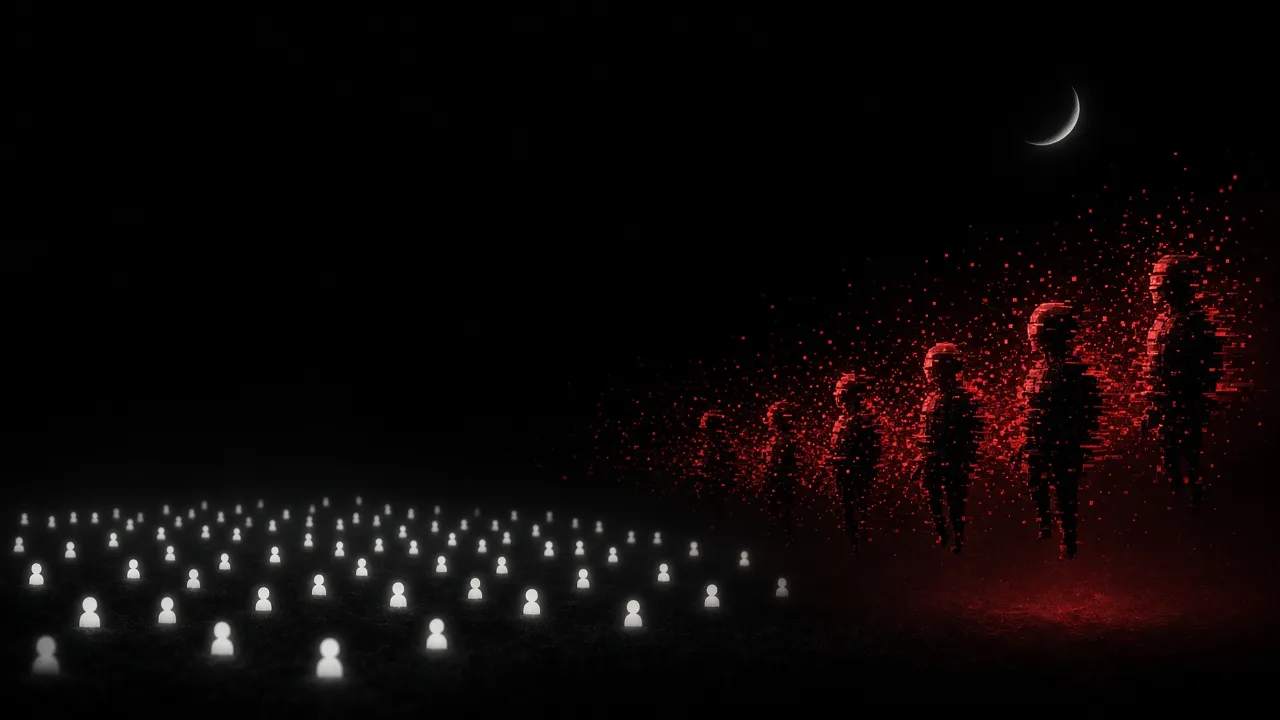
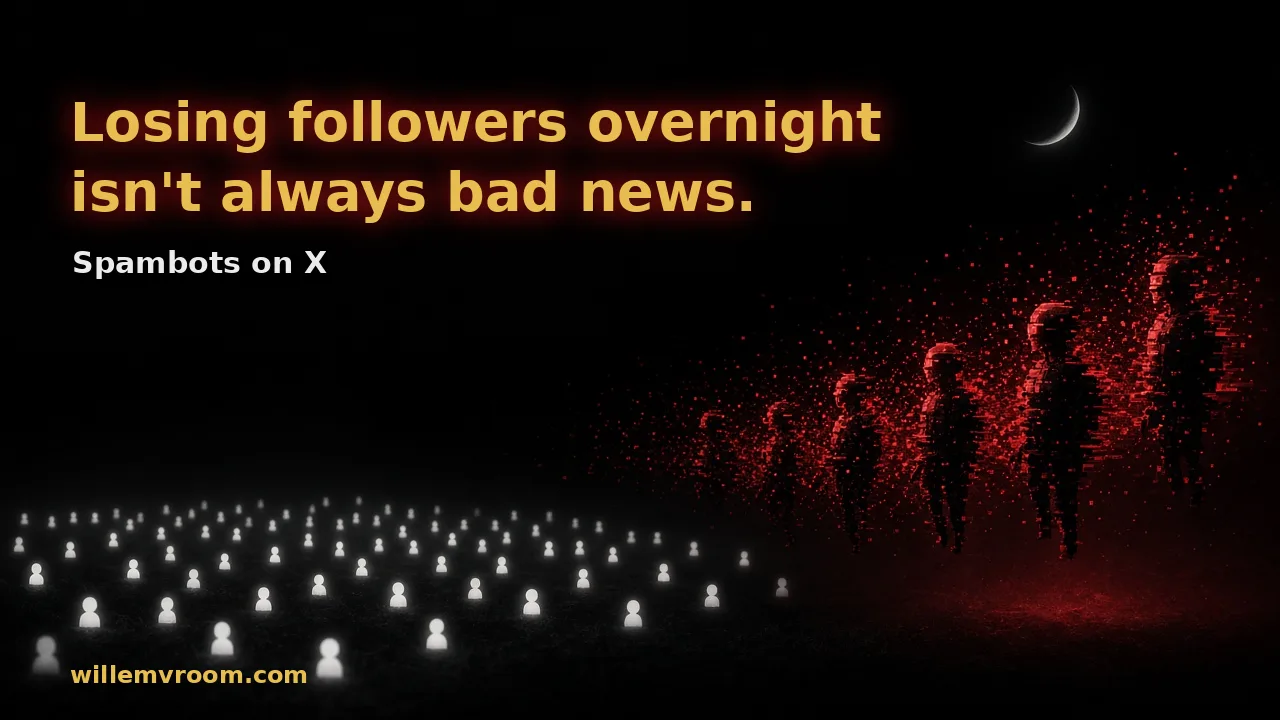
Spambots: final header image with headline

Changed region(s): [[0.0312, 0.1222, 0.7188, 0.3972], [0.0625, 0.9167, 0.25, 0.9472]]

diff --git a/spambots/index.html b/spambots/index.html
@@ -16,12 +16,12 @@
 <meta property="og:url" content="https://willemvroom.com/spambots/">
 <meta property="og:title" content="Spambots on X: why you lose followers overnight">
 <meta property="og:description" content="What spambots on X are, why your follower count sometimes drops, how bots hurt your reach, and what you can do about them.">
-<meta property="og:image" content="https://willemvroom.com/work/spambots-og.jpg?v=1">
+<meta property="og:image" content="https://willemvroom.com/work/spambots-og.jpg?v=2">
 <meta property="og:image:width" content="1280"><meta property="og:image:height" content="720">
 <meta name="twitter:card" content="summary_large_image">
 <meta name="twitter:title" content="Spambots on X: why you lose followers overnight">
 <meta name="twitter:description" content="What spambots on X are, why your follower count sometimes drops, how bots hurt your reach, and what you can do about them.">
-<meta name="twitter:image" content="https://willemvroom.com/work/spambots-og.jpg?v=1">
+<meta name="twitter:image" content="https://willemvroom.com/work/spambots-og.jpg?v=2">
 <script>(function(){try{var t=localStorage.getItem("wv-theme");if(t==="dark"||(!t&&matchMedia("(prefers-color-scheme: dark)").matches)){document.documentElement.classList.add("dark");var m=document.querySelector('meta[name="theme-color"]');if(m)m.setAttribute("content","#0b0b0b");}}catch(e){}})();</script>
 <style>.ai-glow{color:#ff2a3a;text-shadow:0 0 12px rgba(255,42,58,.55)}.pbtn{display:inline-flex;align-items:center;min-height:44px;padding:.5rem 1rem;border:1px solid currentColor;border-radius:999px;font-weight:600;text-decoration:none!important;margin:.5rem .6rem 0 0;background:none;color:inherit;font-size:.9rem;cursor:pointer}.pbtn.bold{background:#ff2a3a;border-color:#ff2a3a;color:#fff}.pbtn:focus-visible,.g a:focus-visible,.g select:focus-visible,.g textarea:focus-visible{outline:3px solid #ff2a3a;outline-offset:2px}.g select,.g textarea{width:100%;font:inherit;font-size:max(16px,1rem);padding:.7rem;border:1px solid rgba(127,127,127,.5);border-radius:10px;background:transparent;color:inherit}.g select option{color:#000}.g label{display:block;font-weight:600;margin-top:1rem}</style>
 <style>
@@ -64,7 +64,7 @@
 <header class="wv-head"><a href="/" class="home">willemvroom.com</a><nav><span class="wv-more"><button type="button" class="wv-more-btn" aria-expanded="false" aria-controls="wv-more-menu" aria-label="More pages" onclick="var m=this.nextElementSibling,o=m.hidden;m.hidden=!o;this.setAttribute('aria-expanded',o)"><svg width="20" height="20" viewBox="0 0 24 24" fill="none" stroke="currentColor" stroke-width="2.2" stroke-linecap="round" stroke-linejoin="round" aria-hidden="true"><path d="M6 9l6 6 6-6"/></svg></button><span id="wv-more-menu" class="wv-more-menu" hidden><a href="/">Home</a><a href="/toolkit/">Toolkit</a><a href="/map/">Map</a><span class="wv-more-g">Hooks</span><a href="/hooks/">Hooks on X</a><a href="/how-to-hook/">How to Hook</a><a href="/hooks-for-bots/">Hooks for Bots</a><a href="/hook-app/">Hook App</a><span class="wv-more-g">Replies</span><a href="/reply/">Reply on X</a><a href="/how-to-reply/">How to Reply</a><a href="/replyapp/">Reply App</a><span class="wv-more-g">X Algorithm</span><a href="/x-algorithm/">X Algorithm</a><a href="/x-timing/">Timing</a><a href="/x-media/">Images & video</a><a href="/x-negative-signals/">Negative signals</a><a href="/x-followers/">Followers</a><a href="/spambots/">Spambots</a><span class="wv-more-g">Shares</span><a href="/x-shares/">Shares on X</a><a href="/share-hooks/">Share Hooks</a><span class="wv-more-g">Tools</span><a href="/toolkit-app/">Toolkit App</a></span></span><style>.wv-more{position:relative;display:inline-block;margin-right:.35rem}.wv-more-menu{max-height:70vh;overflow-y:auto;-webkit-overflow-scrolling:touch;overscroll-behavior:contain;min-width:12rem}.wv-more-g{display:block;padding:.55rem .6rem .2rem;font-size:.7rem;font-weight:700;letter-spacing:.08em;text-transform:uppercase;color:#000;-webkit-text-stroke:.7px #d62828;paint-order:stroke fill;text-shadow:none;border-top:1px solid var(--color-line);margin-top:.25rem}html.dark .wv-more-g{color:#fff;text-shadow:0 0 6px rgba(255,42,58,.95),0 0 14px rgba(255,42,58,.6)}.wv-head:has(.wv-more-btn[aria-expanded=true]){clip-path:none!important;z-index:2000!important}.wv-more-btn{display:inline-flex;align-items:center;justify-content:center;border:0;background:transparent;color:#d62828;width:36px;height:44px;padding:0;cursor:pointer;-webkit-tap-highlight-color:transparent}.wv-more-btn svg{transition:transform .2s;filter:drop-shadow(0 0 5px rgba(255,42,58,.55))}.wv-more-btn[aria-expanded=true] svg{transform:rotate(180deg)}.wv-more-btn:hover svg,.wv-more-btn:focus-visible svg{filter:drop-shadow(0 0 8px rgba(255,42,58,.9))}.wv-more-menu{position:absolute;right:0;top:calc(100% + .4rem);z-index:1000;display:flex;flex-direction:column;min-width:8.5rem;padding:.35rem;background:var(--color-bg);color:var(--color-fg);border:1px solid var(--color-line);border-radius:12px;box-shadow:0 10px 28px -10px rgba(255,42,58,.6)}.wv-more-menu[hidden]{display:none}.wv-more-menu a{padding:.55rem .7rem;border-radius:8px;text-decoration:none;color:inherit;font-weight:600}.wv-more-menu a:hover,.wv-more-menu a:focus{background:rgba(255,42,58,.12);color:#ff2a3a}</style><script>document.addEventListener("click",function(e){var w=document.querySelector(".wv-more");if(w&&!w.contains(e.target)){w.querySelector(".wv-more-menu").hidden=true;w.querySelector(".wv-more-btn").setAttribute("aria-expanded","false")}});document.addEventListener("keydown",function(e){if(e.key==="Escape"){var w=document.querySelector(".wv-more");if(w){w.querySelector(".wv-more-menu").hidden=true;w.querySelector(".wv-more-btn").setAttribute("aria-expanded","false")}}})</script> <button id="thm" type="button" aria-label=""><svg class="moon" viewBox="0 0 24 24" width="18" height="18" fill="none" stroke="currentColor" stroke-width="2" stroke-linecap="round" stroke-linejoin="round"><path d="M21 12.8A9 9 0 1 1 11.2 3a7 7 0 0 0 9.8 9.8z"/></svg><svg class="sun" viewBox="0 0 24 24" width="18" height="18" fill="none" stroke="currentColor" stroke-width="2" stroke-linecap="round"><circle cx="12" cy="12" r="4.5"/><path d="M12 2v2M12 20v2M4.9 4.9l1.4 1.4M17.7 17.7l1.4 1.4M2 12h2M20 12h2M4.9 19.1l1.4-1.4M17.7 6.3l1.4-1.4"/></svg></button></nav></header>
 <main id="inhoud" class="g">
 <p class="text-sm"><a href="/">← willemvroom.com</a></p>
-<picture><source srcset="/work/spambots-cover.webp?v=1" type="image/webp"><img style="display:block;margin-top:1rem;width:100%;height:auto;border-radius:16px;background:#000" src="/work/spambots-og.jpg?v=1" width="1280" height="720" alt="White glowing followers on the left, red bot figures dissolving into red pixels on the right under a crescent moon"></picture><h1 style="margin-top:1.5rem">Losing followers overnight isn't always bad news.</h1>
+<h1 class="sr-only">Losing followers overnight isn't always bad news.</h1><picture><source srcset="/work/spambots-cover.webp?v=2" type="image/webp"><img style="display:block;margin-top:1rem;width:100%;height:auto;border-radius:16px;background:#000" src="/work/spambots-og.jpg?v=2" width="1280" height="720" alt="Losing followers overnight isn't always bad news. Spambots on X"></picture>
 <p class="sub mt-6">Here's what spambots on X are, why your follower count sometimes drops for no clear reason, how bots hurt your reach, and what you can do about them.</p>
 <p><a class="pbtn bold" href="https://x.com/intent/post?text=Spambots%20on%20X:%20why%20you%20lose%20followers%20overnight%20by%20%40willemvroom%20https://willemvroom.com/spambots/" target="_blank" rel="noopener">Share on X</a><a class="pbtn" href="/x-algorithm/">X Algorithm guide</a></p>
 

diff --git a/index.html b/index.html
@@ -154,7 +154,7 @@
 <div class="flex items-baseline justify-between sm:col-span-2 sm:block"><p class="werk-nr font-display text-2xl leading-none">19</p><p class="mt-2 text-sm text-subtle">Nov 1, 2026</p></div>
 <div class="sm:col-span-10"><h3 class="font-display text-3xl leading-tight font-medium tracking-tight">Spambots on X</h3>
 <p class="mt-3 max-w-xl text-base text-muted">Losing followers overnight isn't always bad news. What spambots are, why counts drop, and what to do about them.</p>
-<a href="/spambots/"><picture><source srcset="/work/spambots-cover.webp?v=1" type="image/webp"><img loading="lazy" style="display:block;margin-top:1rem;width:100%;max-width:36rem;height:auto;border-radius:16px;background:#000" src="/work/spambots-og.jpg?v=1" width="1280" height="720" alt="White glowing followers on the left, red bot figures dissolving into red pixels on the right under a crescent moon"></picture></a>
+<a href="/spambots/"><picture><source srcset="/work/spambots-cover.webp?v=2" type="image/webp"><img loading="lazy" style="display:block;margin-top:1rem;width:100%;max-width:36rem;height:auto;border-radius:16px;background:#000" src="/work/spambots-og.jpg?v=2" width="1280" height="720" alt="Losing followers overnight isn't always bad news. Spambots on X"></picture></a>
 <p class="mt-4"><a href="/spambots/" class="link-line press inline-flex min-h-11 items-center gap-2 text-sm font-medium">Read</a></p></div>
 </article>
 </div>
